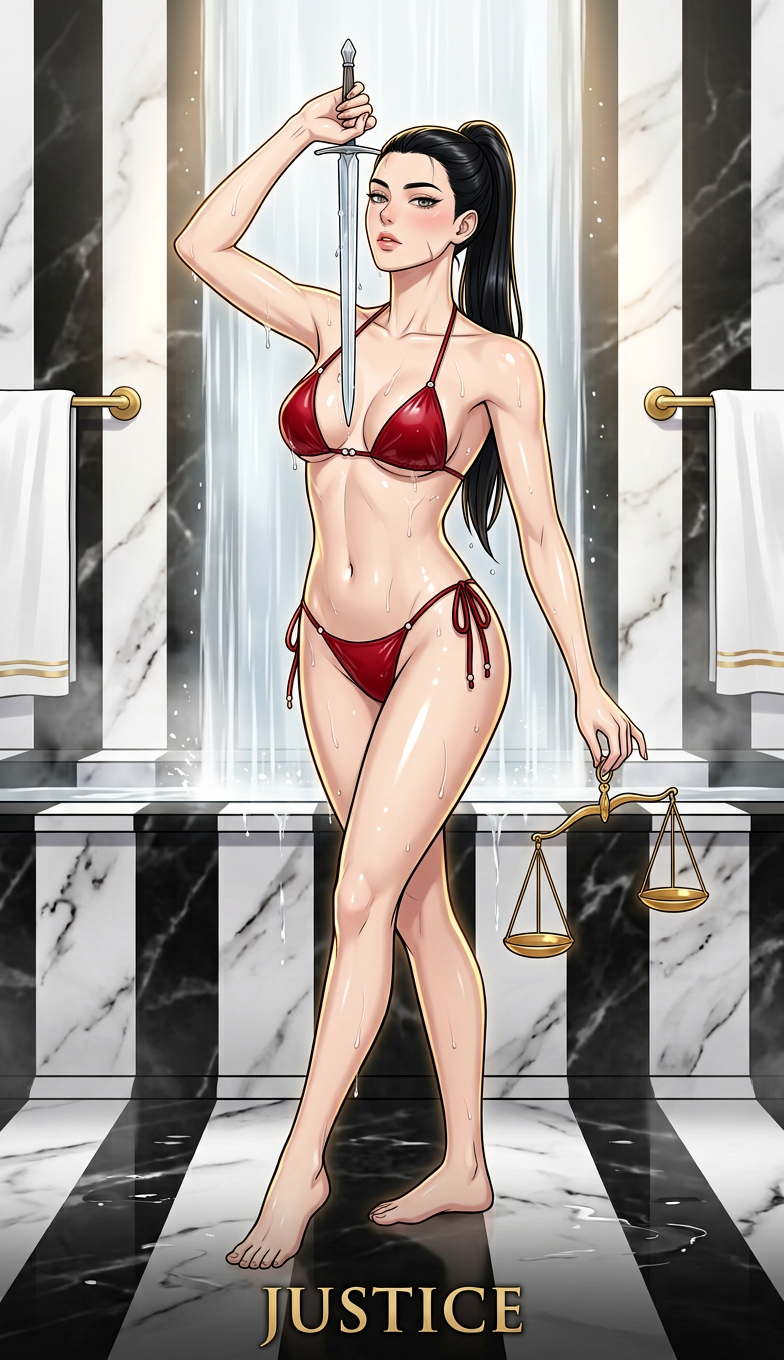
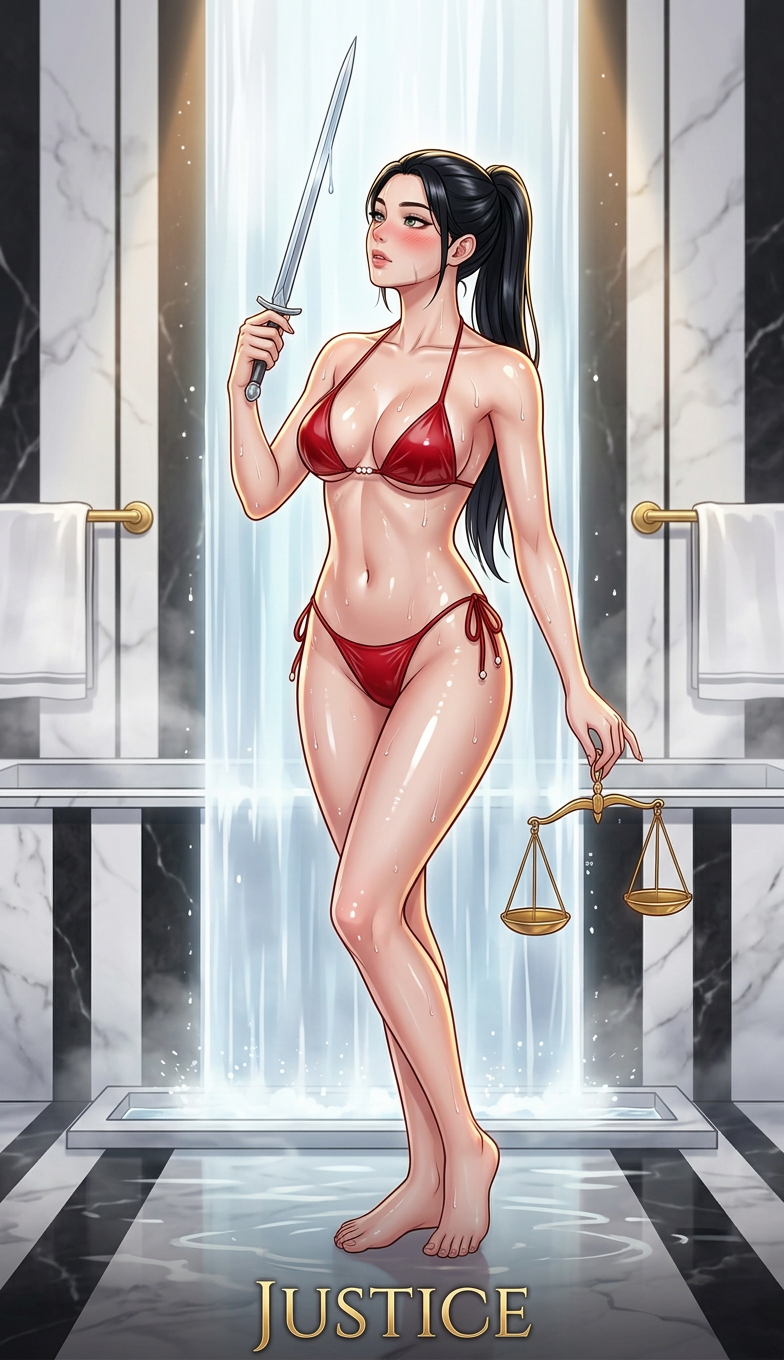
Justice v4: sword tip pointing straight up, gazing into the blade
Per user spec: crystal blade now held vertical with its TIP POINTING STRAIGHT
UP (hilt at collarbone level, flat catching her faint reflection) and she
gazes INTO the blade itself — absorbed, watching a water droplet slide down
the edge — instead of looking past it at the viewer. Regenerated
11-justice.png + contact sheets.

diff --git a/build_prompts_v2.py b/build_prompts_v2.py
@@ -120,15 +120,17 @@ POSE_OVERRIDES = {
                "relaxed hand cradles its flaming mane — the beast's eyes half-closed in total "
                "docile trust, mouth softly closed, completely tamed by her tenderness, "
                "exactly one lion and no other animals in the scene",
-    # Justice: góc 3/4, mặt hơi ngửa sau, kiếm dựng trước mặt, tay kia buông sau cầm cán cân
+    # Justice: góc 3/4, mặt hơi ngửa sau, MŨI KIẾM HƯỚNG LÊN TRÊN, mắt đăm chiêu nhìn vào kiếm
     "11-justice": "posed in a three-quarter body angle on the wet striped marble, weight on "
-               "one leg, hip softly popped; her chin lifted and face tilted slightly back, "
-               "gazing level and unblinking at the viewer down the line of the slim crystal "
-               "blade she raises UPRIGHT in front of her face in one hand — the blade held "
-               "vertical at eye level, parallel to her cheek, water droplets sliding down its "
-               "edge; her other arm hangs loose and relaxed behind her, fingers casually "
-               "holding a small golden balance scale whose two pans hang perfectly level, "
-               "shoulders bare, water still streaming down her collarbones",
+               "one leg, hip softly popped; her chin lifted and face tilted slightly back as "
+               "she GAZES INTO the slim crystal blade she raises in front of her face in one "
+               "hand — eyes fixed on the blade itself, absorbed, watching a single water "
+               "droplet slide down its edge; the blade held VERTICAL with its TIP POINTING "
+               "STRAIGHT UP toward the ceiling, hilt at her collarbone level, the flat of "
+               "the blade catching her reflection; her other arm hangs loose and relaxed "
+               "behind her, fingers casually holding a small golden balance scale whose two "
+               "pans hang perfectly level, shoulders bare, water still streaming down her "
+               "collarbones",
     # Temperance: hai chalice rót dòng nước mỏng — nhìn lại qua vai
     "14-temperance": "standing in graceful contrapposto between the two basins, one arm raised "
                "high tipping a golden chalice so a single THIN unbroken stream of water pours "

diff --git a/prompts_frameless_v2/11-justice.md b/prompts_frameless_v2/11-justice.md
@@ -6,7 +6,7 @@
 - **Reference style/contour/lettering:** `major_08_strength.png`
 - **Reference wet fabric/swimwear:** `test_card_17_the_star.png`
 - **Outfit:** soaking-wet cherry-red micro string bikini with tiny pearl beads (opaque swimwear, no see-through)
-- **Pose gợi cảm:** posed in a three-quarter body angle on the wet striped marble, weight on one leg, hip softly popped; her chin lifted and face tilted slightly back, gazing level and unblinking at the viewer down the line of the slim crystal blade she raises UPRIGHT in front of her face in one hand — the blade held vertical at eye level, parallel to her cheek, water droplets sliding down its edge; her other arm hangs loose and relaxed behind her, fingers casually holding a small golden balance scale whose two pans hang perfectly level, shoulders bare, water still streaming down her collarbones
+- **Pose gợi cảm:** posed in a three-quarter body angle on the wet striped marble, weight on one leg, hip softly popped; her chin lifted and face tilted slightly back as she GAZES INTO the slim crystal blade she raises in front of her face in one hand — eyes fixed on the blade itself, absorbed, watching a single water droplet slide down its edge; the blade held VERTICAL with its TIP POINTING STRAIGHT UP toward the ceiling, hilt at her collarbone level, the flat of the blade catching her reflection; her other arm hangs loose and relaxed behind her, fingers casually holding a small golden balance scale whose two pans hang perfectly level, shoulders bare, water still streaming down her collarbones
 - **Background mode:** bathroom · **Giáp:** đã loại bỏ hoàn toàn (strip + negative)
 
 ## Prompt
@@ -22,7 +22,7 @@ GARMENT-TO-BODY DETAIL: thin strap tension lines pressing gently into shoulders 
 
 WET FABRIC (match reference 2): soaking-wet cherry-red micro string bikini with tiny pearl beads — waterlogged darkened tone with a glossy wet sheen, fabric fully opaque, clinging like a second skin with zero loose folds, plastered wet wrinkles, water droplets beading on the fabric surface, tiny drips falling from the fabric edges; whole body wet with droplets and thin rivulets, wet gleaming hair strands; she just rose out of the water or stepped out of the shower, so the drenched look reads naturally.
 
-FIGURE: 24 years old, build: **B** cao, thanh thoát, xương đòn nổi, lưng thẳng, hair: sleek raven-black hair drawn back sharply into a high polished half-ponytail, eyes: grey-green, wide-set, nhìn thẳng không chớp, skin: ivory with glossy wet highlights, signature: sẹo mảnh dọc hàm trái, aura: cán cân, đá cẩm thạch, im lặng. Alluring pose: posed in a three-quarter body angle on the wet striped marble, weight on one leg, hip softly popped; her chin lifted and face tilted slightly back, gazing level and unblinking at the viewer down the line of the slim crystal blade she raises UPRIGHT in front of her face in one hand — the blade held vertical at eye level, parallel to her cheek, water droplets sliding down its edge; her other arm hangs loose and relaxed behind her, fingers casually holding a small golden balance scale whose two pans hang perfectly level, shoulders bare, water still streaming down her collarbones. Barefoot; blushing cheeks, cat eyeliner, softly parted lips.
+FIGURE: 24 years old, build: **B** cao, thanh thoát, xương đòn nổi, lưng thẳng, hair: sleek raven-black hair drawn back sharply into a high polished half-ponytail, eyes: grey-green, wide-set, nhìn thẳng không chớp, skin: ivory with glossy wet highlights, signature: sẹo mảnh dọc hàm trái, aura: cán cân, đá cẩm thạch, im lặng. Alluring pose: posed in a three-quarter body angle on the wet striped marble, weight on one leg, hip softly popped; her chin lifted and face tilted slightly back as she GAZES INTO the slim crystal blade she raises in front of her face in one hand — eyes fixed on the blade itself, absorbed, watching a single water droplet slide down its edge; the blade held VERTICAL with its TIP POINTING STRAIGHT UP toward the ceiling, hilt at her collarbone level, the flat of the blade catching her reflection; her other arm hangs loose and relaxed behind her, fingers casually holding a small golden balance scale whose two pans hang perfectly level, shoulders bare, water still streaming down her collarbones. Barefoot; blushing cheeks, cat eyeliner, softly parted lips.
 
 SCENE & SYMBOLISM (Monochrome scales bath): a composed 23-year-old streamer in a monochrome justice bathroom: stark black-and-white striped marble, two gold balance-scale towel racks perfectly level, a vertical sheet of falling water splitting evenly between twin basins, one slim crystal blade raised upright before her face in one hand and a small golden balance scale hanging level from her other hand behind her. Tarot emblem integrated naturally: balanced golden scales. COUNT LOCK — EXACTLY 1 SWORD (hard constraint; count before you draw).
 The scene contains exactly 1 sword — not 0, not 2.
